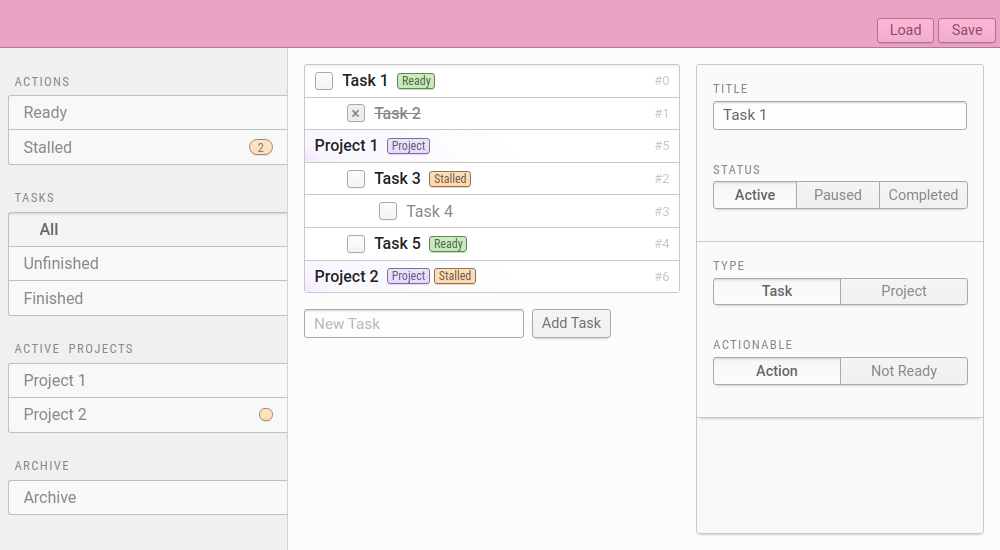
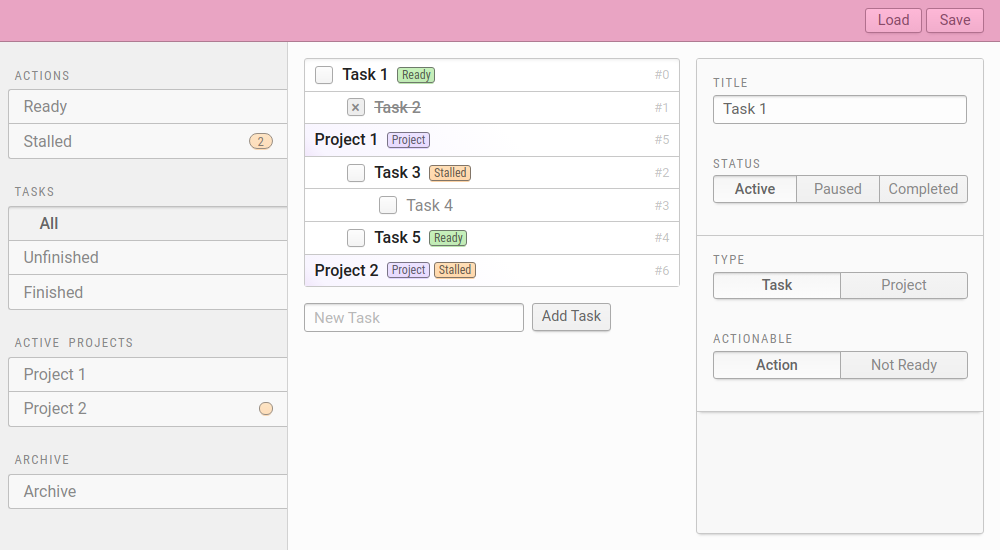
Align buttons in top bar to editor

diff --git a/main.module.scss b/main.module.scss
@@ -16,14 +16,14 @@
 
 .outerContainer {
   display: grid;
-  grid: "top-bar top-bar" 3em "sidebar main" 1fr / 18em 1fr;
+  grid: "top-bar top-bar" auto "sidebar main" 1fr / 18em 1fr;
 
   .topBar {
     grid-area: top-bar;
     background-color: shared.$branding-color;
     border-bottom: 1px solid #00000040;
 
-    padding: 0.25em;
+    padding: 0.5em 1em;
 
     display: flex;
     align-items: flex-end;
